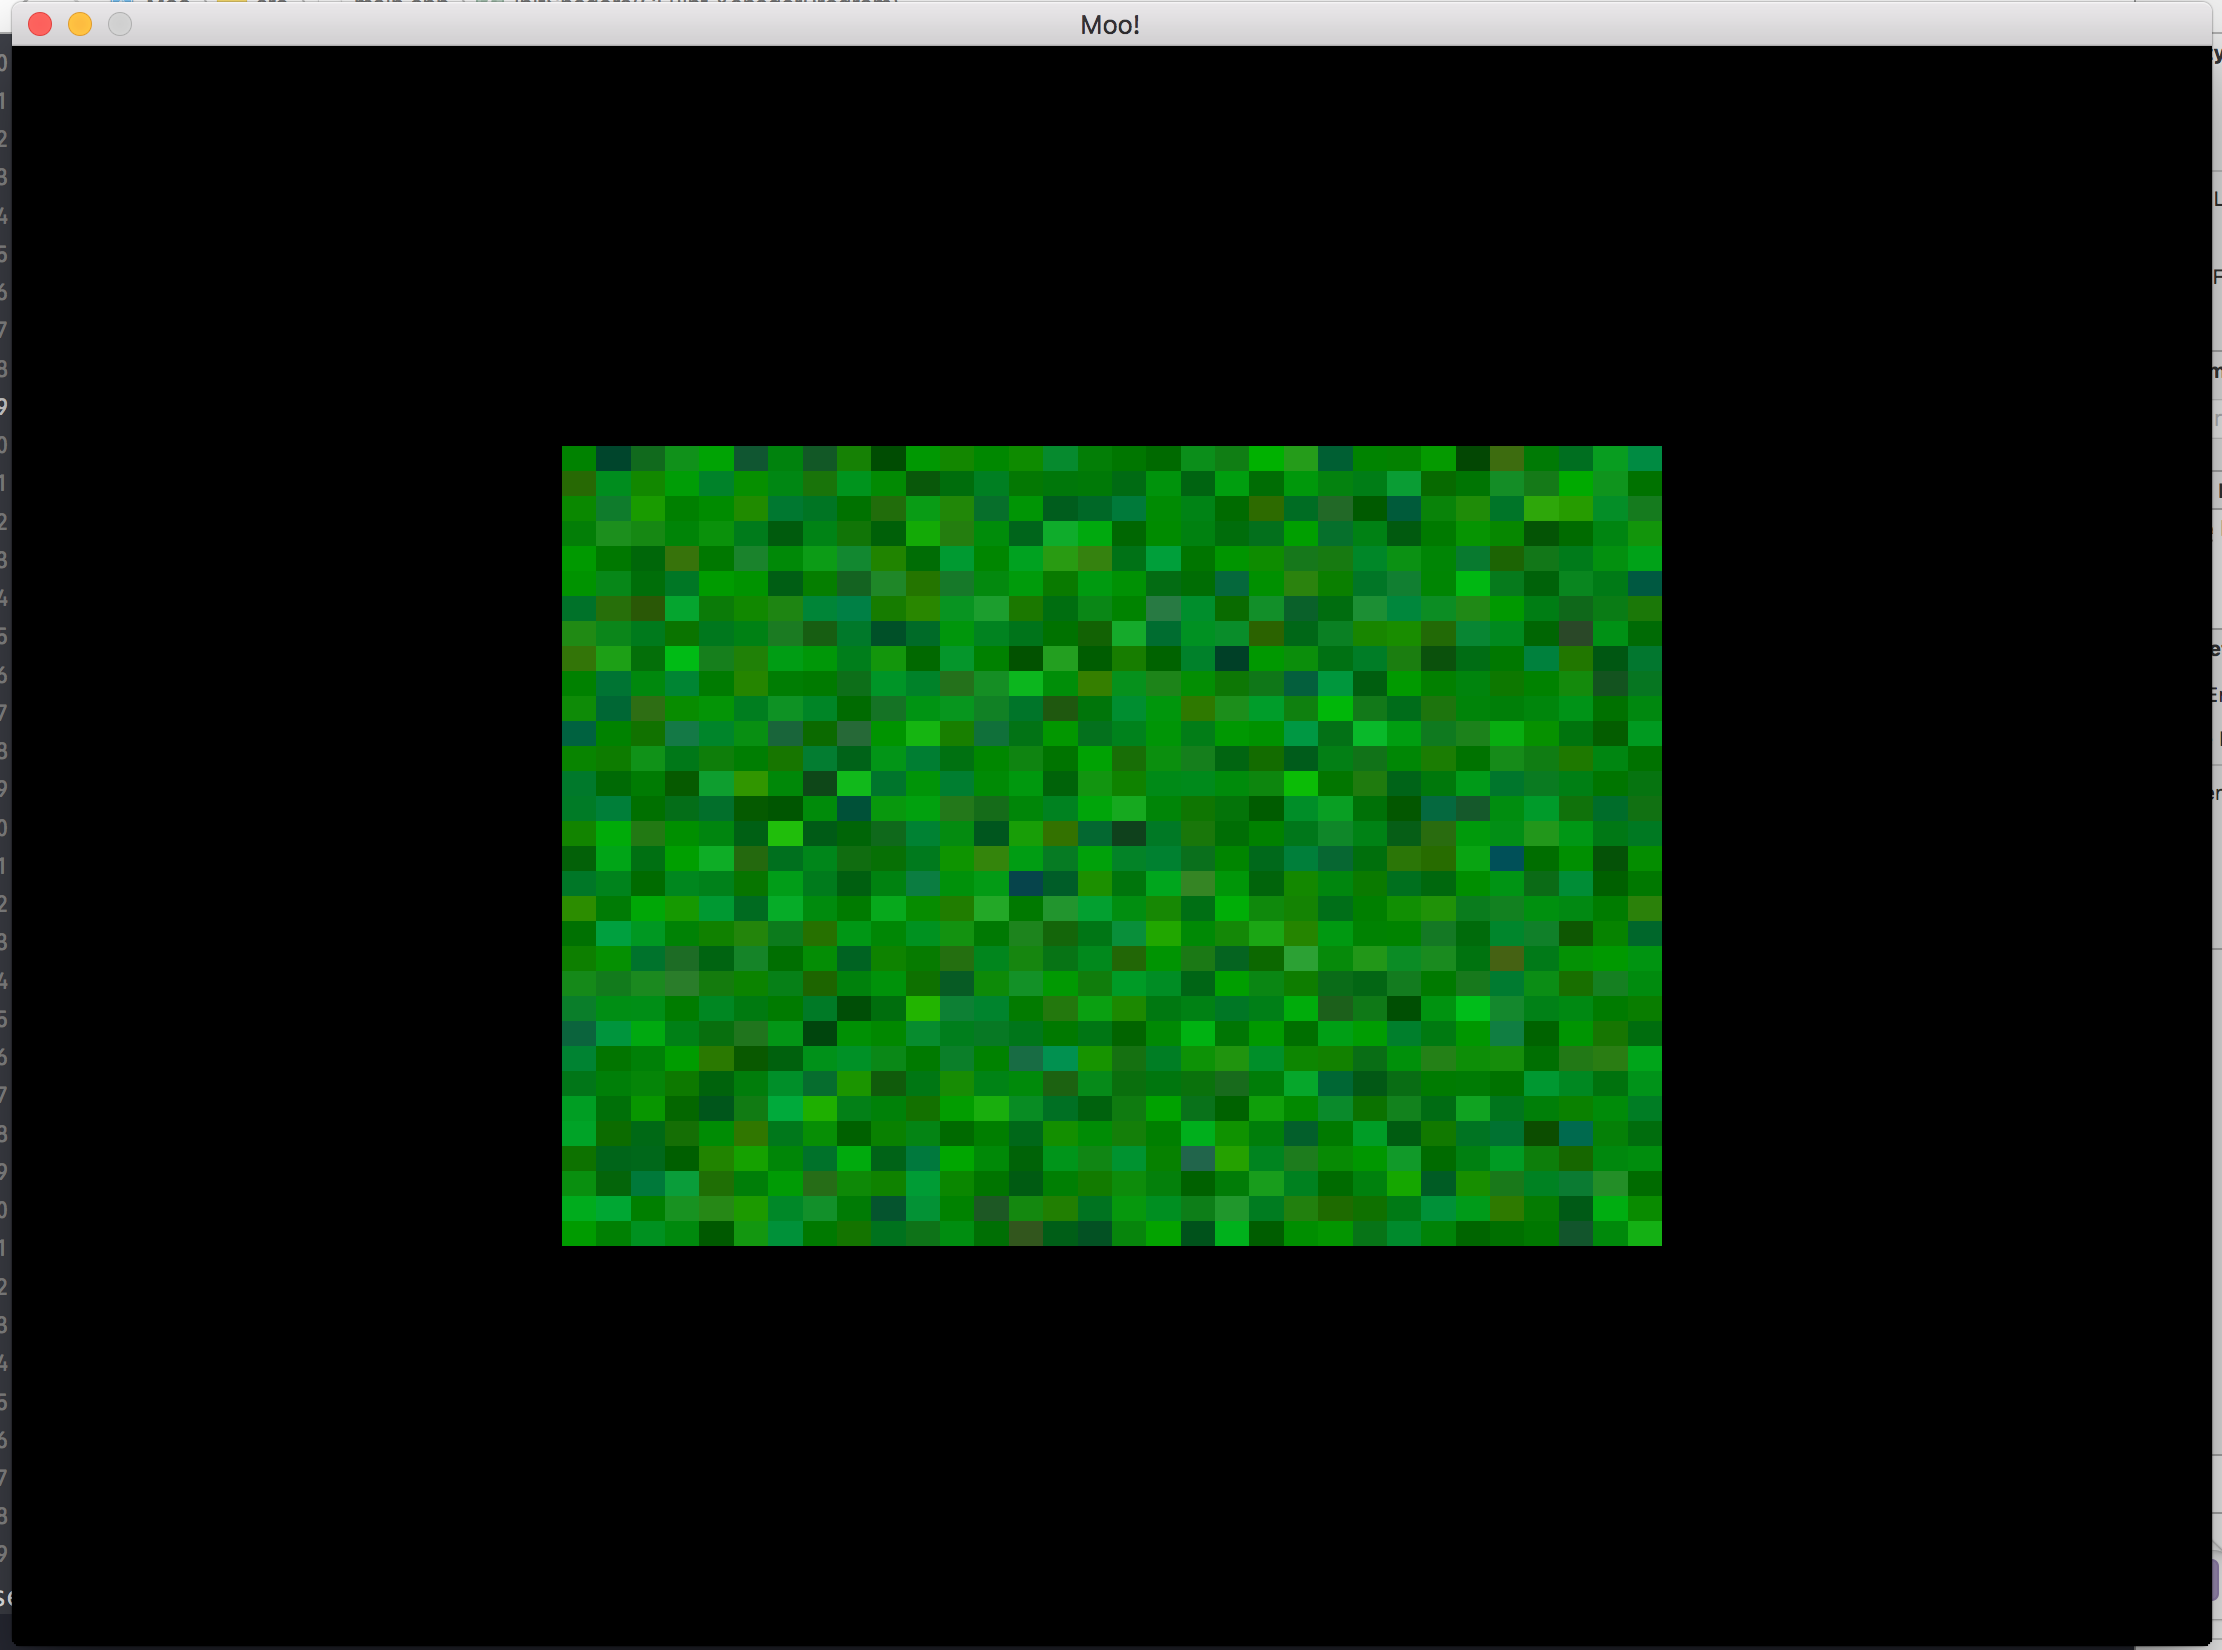
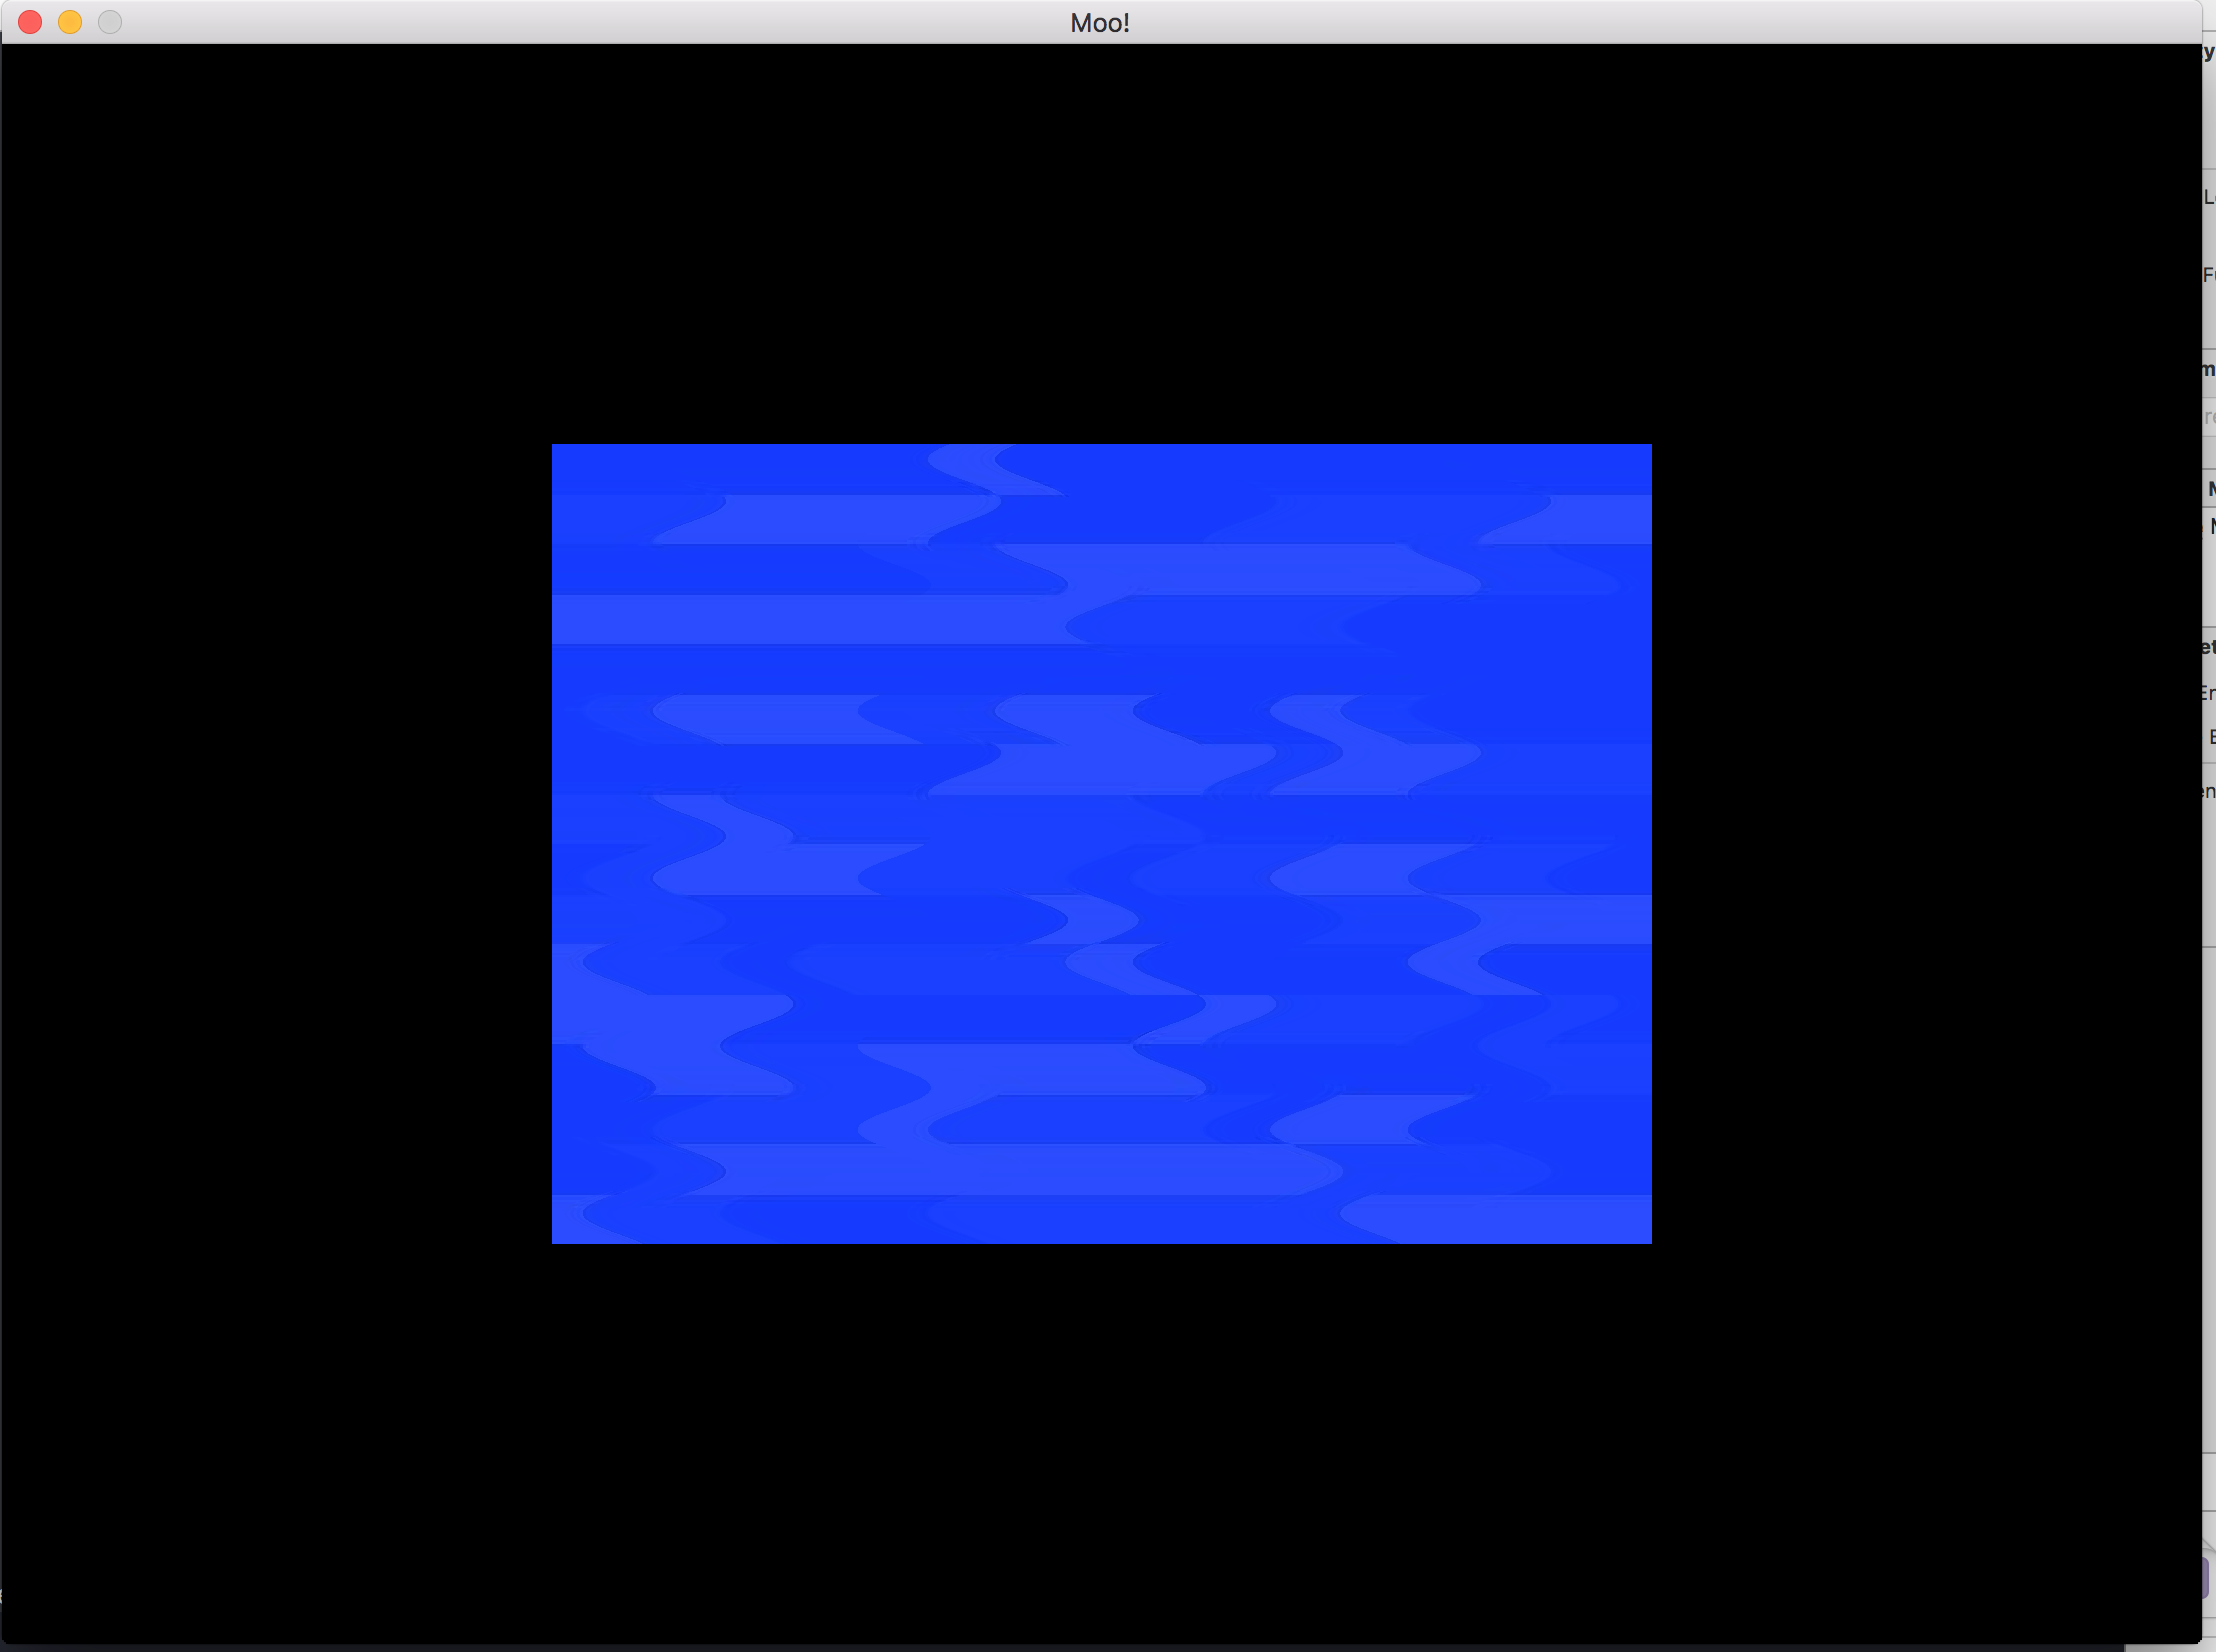
Water kinda!

diff --git a/src/main.cpp b/src/main.cpp
@@ -12,7 +12,6 @@
 #include <fstream>
 #include <string>
 #include <math.h>
-#include <SOIL/SOIL.h>
 
 using namespace std;
 
@@ -88,7 +87,7 @@ void printShaderCompileResult(GLuint shader, const char* shaderName) {
 void initShaders(GLuint &shaderProgram) {
 
     const char* vertexSource = loadFile("minimal.vert");
-    const char* fragmentSource = loadFile("minimal.frag");
+    const char* fragmentSource = loadFile("water.frag");
 
     GLuint vertexShader = glCreateShader(GL_VERTEX_SHADER);
     glShaderSource(vertexShader, 1, &vertexSource, NULL);
@@ -119,20 +118,33 @@ void initShaders(GLuint &shaderProgram) {
     glVertexAttribPointer(texAttrib, 2, GL_FLOAT, GL_FALSE, 4*sizeof(float), (void*)(2*sizeof(float)));
     glEnableVertexAttribArray(texAttrib);
 
-    GLuint tex;
-    glGenTextures(1, &tex);
-    glBindTexture(GL_TEXTURE_2D, tex);
+    GLuint textures[2];
+    glGenTextures(2, textures);
 
-    int width, height;
-    unsigned char* image = SOIL_load_image("grass.png", &width, &height, 0, SOIL_LOAD_RGB);
-    glTexImage2D(GL_TEXTURE_2D, 0, GL_RGB, width, height, 0, GL_RGB, GL_UNSIGNED_BYTE, image);
-    SOIL_free_image_data(image);
+    sf::Image image;
+
+    glActiveTexture(GL_TEXTURE0);
+    glBindTexture(GL_TEXTURE_2D, textures[0]);
+    image.loadFromFile("water.jpg");
+    glTexImage2D(GL_TEXTURE_2D, 0, GL_RGBA, image.getSize().x, image.getSize().y, 0, GL_RGBA, GL_UNSIGNED_BYTE, image.getPixelsPtr());
+    glUniform1i(glGetUniformLocation(shaderProgram, "waterTexture"), 0);
 
     glTexParameteri(GL_TEXTURE_2D, GL_TEXTURE_WRAP_S, GL_CLAMP_TO_EDGE);
     glTexParameteri(GL_TEXTURE_2D, GL_TEXTURE_WRAP_T, GL_CLAMP_TO_EDGE);
     glTexParameteri(GL_TEXTURE_2D, GL_TEXTURE_MIN_FILTER, GL_NEAREST);
     glTexParameteri(GL_TEXTURE_2D, GL_TEXTURE_MAG_FILTER, GL_NEAREST);
+    
+    glActiveTexture(GL_TEXTURE1);
+    glBindTexture(GL_TEXTURE_2D, textures[1]);
+    image.loadFromFile("dirt.jpg");
+    glTexImage2D(GL_TEXTURE_2D, 0, GL_RGBA, image.getSize().x, image.getSize().y, 0, GL_RGBA, GL_UNSIGNED_BYTE, image.getPixelsPtr());
+    glUniform1i(glGetUniformLocation(shaderProgram, "texDirt"), 1);
 
+    
+    glTexParameteri(GL_TEXTURE_2D, GL_TEXTURE_WRAP_S, GL_CLAMP_TO_EDGE);
+    glTexParameteri(GL_TEXTURE_2D, GL_TEXTURE_WRAP_T, GL_CLAMP_TO_EDGE);
+    glTexParameteri(GL_TEXTURE_2D, GL_TEXTURE_MIN_FILTER, GL_NEAREST);
+    glTexParameteri(GL_TEXTURE_2D, GL_TEXTURE_MAG_FILTER, GL_NEAREST);
 
 }
 
@@ -169,7 +181,11 @@ int main(int argc, char *argv[]) {
 
     GLuint shaderProgram;
     initShaders(shaderProgram);
+    
+    auto start = std::chrono::high_resolution_clock::now();
+    GLuint timeUniform = glGetUniformLocation(shaderProgram, "time");
 
+    
     bool running = true;
 
     while (running) {
@@ -188,7 +204,11 @@ int main(int argc, char *argv[]) {
                     break;
             }
         }
-
+        auto now = std::chrono::high_resolution_clock::now();
+        float time = std::chrono::duration_cast<std::chrono::duration<float>>(now - start).count();
+        
+        glUniform1f(timeUniform, (sin(time * 4.0f) + 1.0f) / 2.0f);
+        
         // Draw objects
         render();
 
